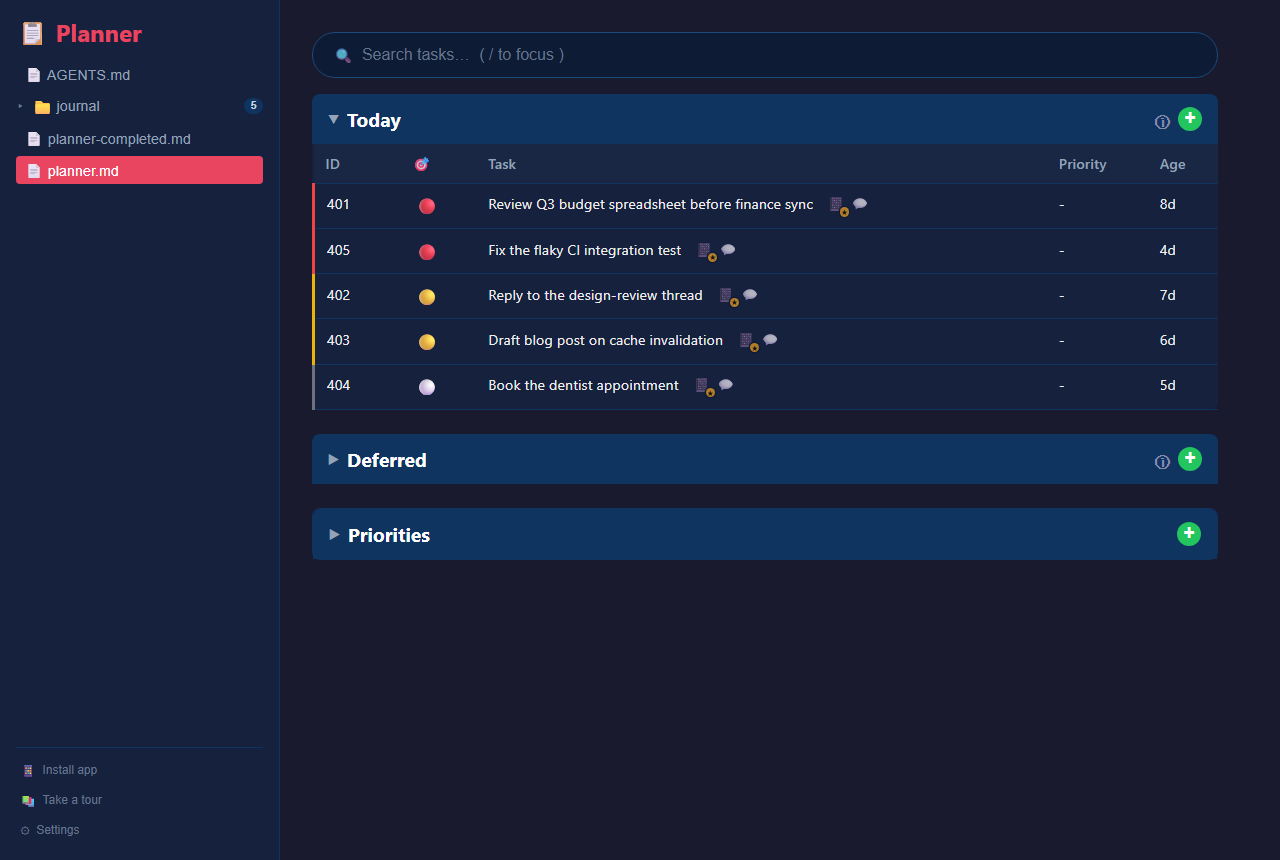
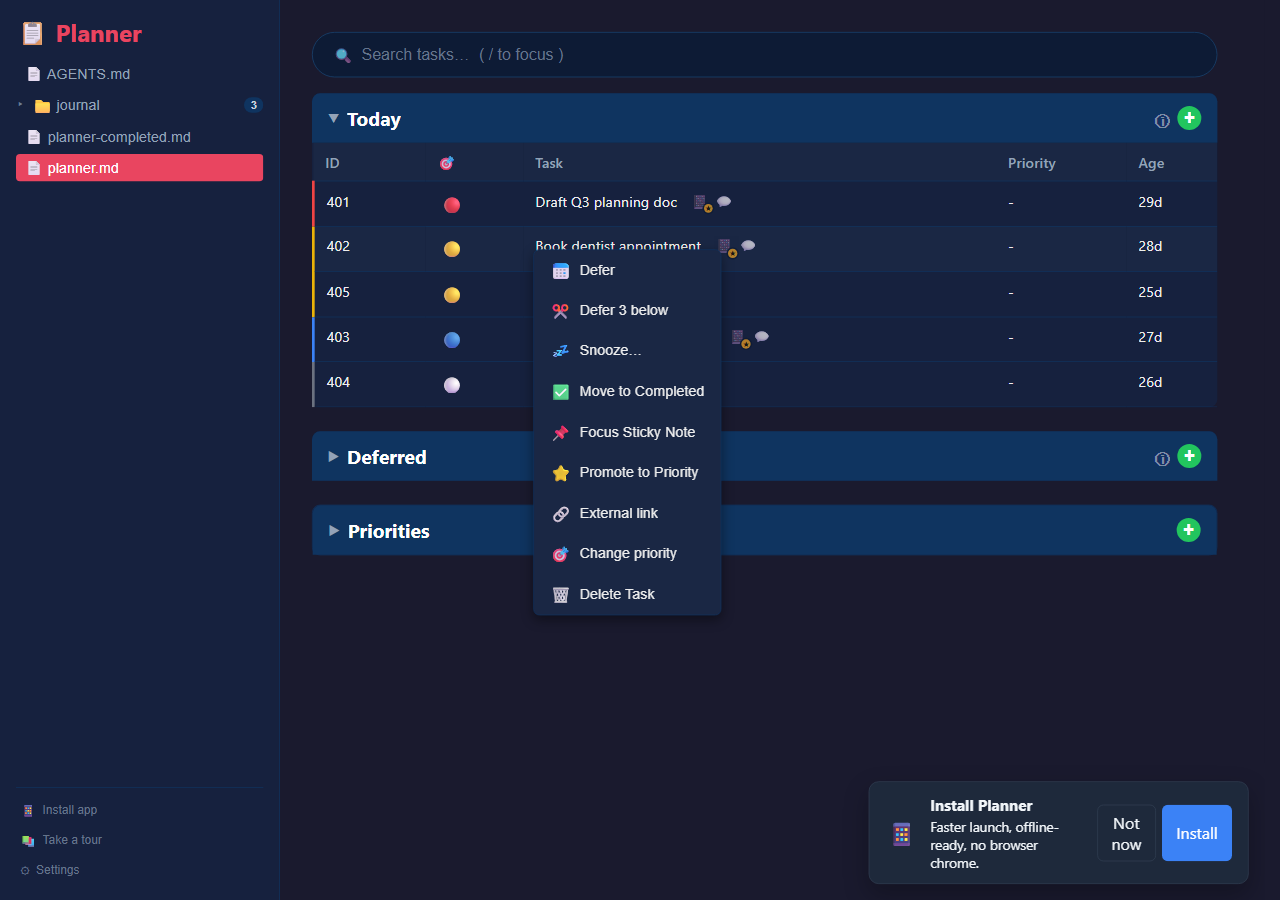
fix(388): open-menu screenshots + fix mobile kebab crash on tap
The mobile action sheet threw 'ReferenceError: telegram is not defined'
in the parent board handleContextMenu (it read telegram?.url inside the
isMobile block, but that state lives in TaskRow). Thread telegram through
as a 6th arg so tapping the kebab opens the sheet instead of crashing.

Redo both PR screenshots with the kebab menu OPEN:
- mobile.png: the row action bottom-sheet open at 390px
- desktop.png: the right-click context menu open at 1280px

diff --git a/src/App.jsx b/src/App.jsx
@@ -1268,7 +1268,7 @@ function TaskRow({ row, headers, onNavigate, managerPriorities, onScrollToPriori
   
   const handleContextMenu = (e) => {
     e.preventDefault()
-    onContextMenu(e, rawLine, row, journalPath, taskId)
+    onContextMenu(e, rawLine, row, journalPath, taskId, telegram)
   }
 
   // Mobile (#335): visible kebab opens the same row-action sheet — no hidden
@@ -1276,7 +1276,7 @@ function TaskRow({ row, headers, onNavigate, managerPriorities, onScrollToPriori
   const handleKebab = (e) => {
     e.preventDefault()
     e.stopPropagation()
-    onContextMenu(e, rawLine, row, journalPath, taskId)
+    onContextMenu(e, rawLine, row, journalPath, taskId, telegram)
   }
   
   // Filter to only uncompleted todos
@@ -1840,7 +1840,7 @@ function TaskSection({ title, tableLines, lineSourceIds, onNavigate, defaultOpen
     }
   }
 
-  const handleContextMenu = (e, rawLine, row, journalPath, taskId) => {
+  const handleContextMenu = (e, rawLine, row, journalPath, taskId, telegram) => {
     const options = []
     const currentSnoozeUntil = row.snoozeUntil || parseSnoozeUntil(rawLine)
     
